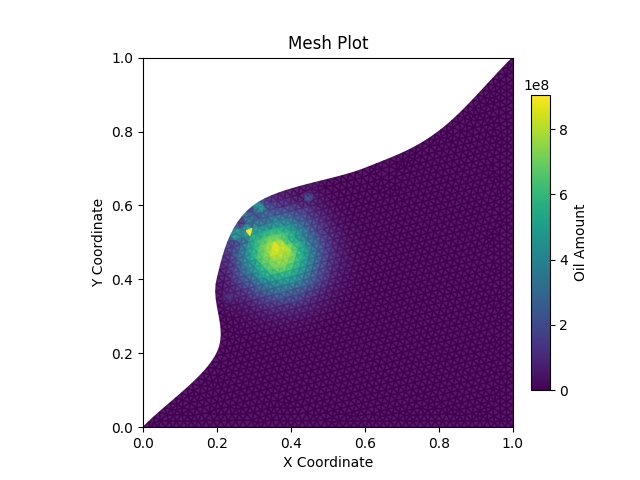
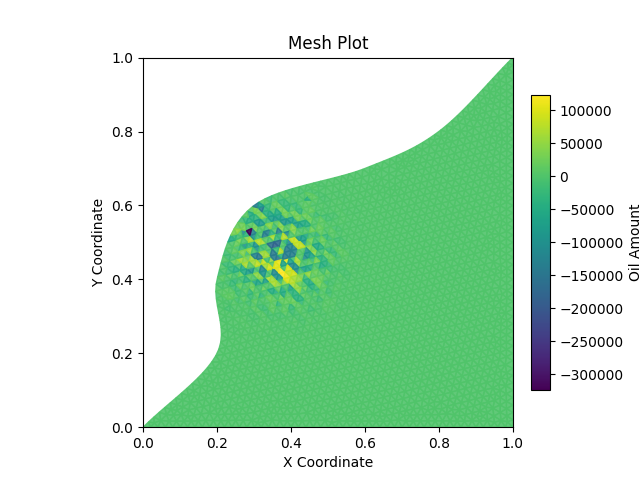
trying different things

diff --git a/scripts/math_function.py b/scripts/math_function.py
@@ -81,13 +81,11 @@ def checking_direction_normal_vector(
 ) -> npt.NDArray[np.float32]:
     point1_coords = point1.coordinates
     point2_coords = point2.coordinates
-    # check if the normal vector is pointing outwards
-    mid_cor_vector = point1_coords - midpoint
+    cor_mid = point1_coords - midpoint
     normal_vector = unit_normal_vector(point1_coords, point2_coords)
-    """ print(mid_cor_vector)
-    print(normal_vector) """
-    angle = angle_between(mid_cor_vector, normal_vector)
-    if angle > 0:
+    angle = angle_between(cor_mid, normal_vector)
+    """ print(angle * np.pi / 2) """
+    if angle < np.pi / 2:
         return -normal_vector
     return normal_vector
 
@@ -111,7 +109,8 @@ def angle_between(
 def calculate_area(
     coordinates: list[
         npt.NDArray[np.float32], npt.NDArray[np.float32], npt.NDArray[np.float32]
-    ]) -> float:
+    ]
+) -> float:
     """
     Calculates the area of triangle cells
     """
@@ -141,23 +140,16 @@ def calculate_change(mesh: object, cell: object, neighbor: object, dt: float):
     Calculates how much oil moves from a cell to it's neighbors
     """
     area = calculate_area(cell.coordinates)
-    total_flux = 0
     mid_cell = midpoint(cell)
     mid_neighbor = midpoint(neighbor)
     point1, point2 = set(neighbor.points) & set(cell.points)
-    scaled_normal_vector = checking_direction_normal_vector(
-        point1, point2, mid_cell
-    )
+    """ print("point1: ", point1.coordinates, " point2: ", point2.coordinates) """
+    length = point1.coordinates - point2.coordinates
+    """ print("vector: ", length) """
+    scaled_normal_vector = checking_direction_normal_vector(point1, point2, mid_cell)
     v_mid = (velocity(mid_cell) + velocity(mid_neighbor)) / 2
-    scaled_velocity_vector = v_mid / np.linalg.norm(v_mid)
-    
-    flux = g(
-        cell.oil_amount, neighbor.oil_amount, scaled_velocity_vector, v_mid
-    )
+    """ print("normal vector: ", scaled_normal_vector) """
+
+    flux = g(cell.oil_amount, neighbor.oil_amount, scaled_normal_vector, v_mid)
 
     return -dt / area * flux
-
-
-""" 
-def calculate_flux(oil_amount, neighbours_oil_amount, v_mid, nv, A, dt):
-    return -dt / A * g(oil_amount, neighbours_oil_amount, v_mid, nv) """

diff --git a/scripts/main.py b/scripts/main.py
@@ -5,19 +5,20 @@ import time
 import math_function
 import plotting
 
-mesh = classes.Mesh("./meshes/bay.msh")
+mesh = classes.Mesh("../meshes/bay.msh")
 cells = [cell for cell in mesh.cells if cell.type == "triangle"]
-dt = 0.1
+dt = 0.01
 start_point = [0.35, 0.45]
+
 
 def solve(cells, start_point):
     math_function.initial_oil_distribution(cells, start_point)
     initial_cell = math_function.find_initial_cell(cells, start_point)
 
-    for i in range(0,10):
-        dt = i / 10
+    for i in range(0, 10):
         timestep()
         plotting.plotting_mesh(cells, i)
+
 
 def timestep():
     flux_per_cell = [0] * len(mesh.cells)
@@ -29,12 +30,14 @@ def timestep():
                 change = math_function.calculate_change(mesh, cell, ngh, dt)
                 total_flux += change
 
-            flux_per_cell[cell.index] -= total_flux
+            flux_per_cell[cell.index] += total_flux
 
     for i, flux in enumerate(flux_per_cell):
         if mesh.cells[i].type == "triangle":
+            if i == 309:
+                print(flux)
             mesh.cells[i].oil_amount += flux
 
-solve(cells, start_point)
-print(mesh.cells[1500].oil_amount)
 
+solve(cells, start_point)
+print(mesh.cells[309].oil_amount)

diff --git a/scripts/plotting.py b/scripts/plotting.py
@@ -44,6 +44,5 @@ def plotting_mesh(cells, i):
     plt.gca().set_aspect("equal")
     plt.xlim(0, 1)
     plt.ylim(0, 1)
-    filename = f"images/mesh_plot{i+1}.png"
+    filename = f"../images/mesh_plot{i+1}.png"
     plt.savefig(filename)
-
